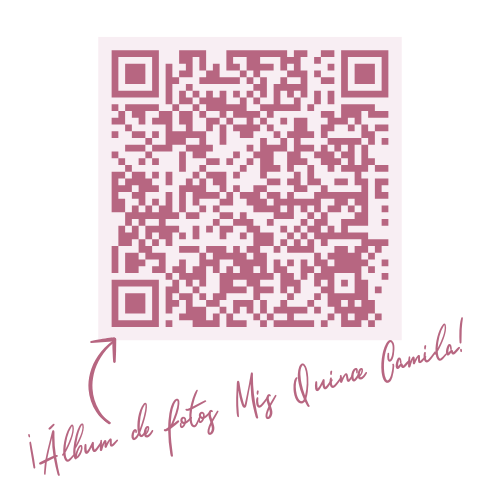
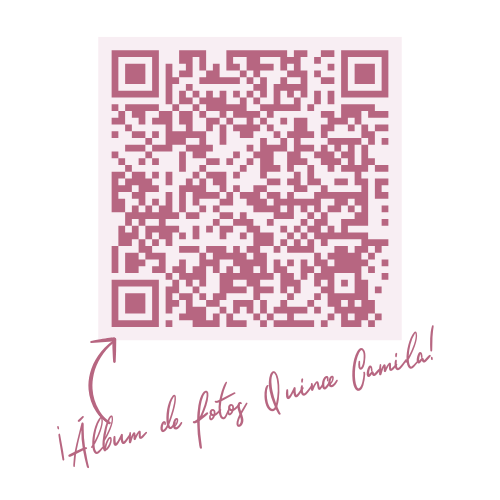
cambios

Changed region(s): [[0.06, 0.63, 0.93, 0.96]]

diff --git a/index.html b/index.html
@@ -3,12 +3,12 @@
 <head>
     <meta charset="UTF-8">
     <meta name="viewport" content="width=device-width, initial-scale=1.0">
-    <title>Mis Quince Camila</title>
+    <title>Quince Camila</title>
     <meta property="og:url" content="">
     <meta property="og:type" content="website">
-    <meta property="og:title" content="Mis Quince Camila">
-    <meta property="og:description" content="Te invito a mis quince, con amor Camila.">
-    <meta property="og:image" content="https://images.pexels.com/photos/12017111/pexels-photo-12017111.jpeg?auto=compress&cs=tinysrgb&w=1260&h=750&dpr=2">
+    <meta property="og:title" content="Quince Camila">
+    <meta property="og:description" content="Te invito a mis quince, con amor Cami.">
+    <meta property="og:image" content="https://i.postimg.cc/dQ6FnRsW/FOTOS-META-7.png">
     <link rel="stylesheet" href="https://cdnjs.cloudflare.com/ajax/libs/font-awesome/6.0.0-beta3/css/all.min.css">
     <link rel="stylesheet" href="/style.css">
     <link rel="preload" href="/imagenes/F1.png" as="image">
@@ -23,20 +23,17 @@
     <div id="envelope">
         <div id="envelope-top"></div>
         <div id="seal">
-            <h2 class="fade-in-element visible" style="transition-delay: 0s;">Mis Quince     Camila</h2>
+            <h2 class="fade-in-element visible" style="transition-delay: 0s;">Quince     Camila</h2>
         </div>
         <div id="envelope-bottom"></div>
     </div>
     <!-- Contenido de la Invitación -->
     <div id="invitacion">
+        <div class="section-ccerezo-inicial"></div>
         <!--Header-->
-        <header class="sintillo">
-            <h1>Mis Quince</h1>
+        <div class="sintillo">
+            <h1>Quince</h1>
             <h2>Camila</h2>
-        </header>
-        <!-- Sección de Foto -->
-        <div class="section-main fade-in-element">
-            <img src="/Imagenes/v1.jpg" alt="Foto de la quinceañera" width="100%">
         </div>
         <!-- Contador de Fecha Regresiva -->
         <div class="section-countdown fade-in-element">
@@ -105,9 +102,6 @@
             <div id="confirmacion"></div>
         </div>
          <!--imagen-->
-         <div class="section fade-in-element">
-            <img src="/imagenes/v2.jpg" alt="Foto de la quinceañera" width="100%" loading="lazy">
-        </div>
         <!-- Itinerario -->
         <div class="section fade-in-element">
           <!--card ceremonia-->
@@ -169,7 +163,7 @@
              style="width:200px;height:200px">
             </lord-icon>
             <h2>Lluvia de Sobres</h2>
-            <p>Lo que más queremos es compartir contigo nuestro gran día, pero agradecemos mucho el gesto de un obsequio. Tendremos un cofre en la entrada para que puedas dejar tu sobre con efectivo</p>
+            <p>El regalo mas especial es compartir con ustedes este gran día, pero si no sabes qué obsequiarme, tendremos un cofre para que puedas dejar tu sobre con efectivo.</p>
             <p>¡Gracias!</p>
         </div>
          <!-- Playlist -->
@@ -188,7 +182,7 @@
         </div>
          <!--imagen-->
          <div class="section fade-in-element">
-            <img src="/Imagenes/v3.jpg" alt="Foto de la quinceañera" width="100%" loading="lazy">
+            <img src="/Imagenes/camila.jpeg" alt="Foto de la quinceañera" width="100%" loading="lazy">
         </div>
         <!-- Buenos Deseos -->
 <div class="section wishes-section fade-in-element" id="wishes">
@@ -201,7 +195,7 @@
     colors="primary:#8B4513,secondary:#C7889D"
     style="width:200px;height:200px">
 </lord-icon>
-    <p>Deja un mensaje especial para Cami 💖</p>
+    <p>Deja un mensaje especial para Cami.</p>
   
     <div class="wishes-actions">
       <button id="btn-ver-deseos" onclick="toggleWishes()">Ver deseos</button>
@@ -236,25 +230,10 @@
             colors="primary:#8b4513,secondary:#c7889d"
             style="width:200px;height:200px">
         </lord-icon>
-            <p>Gala, y nos reservemos las tonalidades corinto, vino y rojo para la quinceañera </p>
+            <p>Agradecemos que puedas ir de gala, pero por ser un dia especial para Cami, te pedimos que reservemos las tonalidades corinto, rojo o vino para la quinceañera.</p>
         </div>
         <!--div cerezo-->
         <div class="section-cerezo0"></div>   
-       <!-- Galería de Fotos -->
-       <div class="section fade-in-element">
-           <h2>Galería</h2>
-           <div class="galeria">
-             <img src="/Imagenes/h2.jpg" alt="Foto 1" class="galeria-imagen" onclick="changePhoto(this)" loading="lazy">
-             <img src="/imagenes/v5.jpg" alt="Foto 2" class="galeria-imagen" onclick="changePhoto(this)" loading="lazy">
-             <img src="/imagenes/v1.jpg" alt="Foto 3" class="galeria-imagen" onclick="changePhoto(this)" loading="lazy">
-             <img src="/Imagenes/FOTOS-META.png" alt="Foto 4" class="galeria-imagen" onclick="changePhoto(this)" loading="lazy">
-           </div>
-        </div>
-        <!-- Modal para visualización de fotos -->
-        <div id="photo-modal" class="photo-modal" onclick="closeModal(event)">
-            <span class="close" onclick="closeModal()">&times;</span>
-            <img id="main-photo-modal" src="" alt="Imagen ampliada">
-        </div>
          <!-- Hashtag + Álbum digital -->
             <div class="section hashtag-section fade-in-element">
     <lord-icon
@@ -266,7 +245,7 @@
       style="width:200px;height:200px">
     </lord-icon>
   
-    <h2>#misquinceCamila</h2>
+    <h2>#quinceCami</h2>
     <p>Sube tus fotos a Instagram usando el hashtag y compártenos tus recuerdos en el álbum digital.</p>
   
     <!-- Aquí colocas tu imagen del QR -->
@@ -277,9 +256,6 @@
 
             </div>
         <!-- Imagen -->
-        <div class="section fade-in-element">
-            <img src="/imagenes/h1.jpg" alt="Foto de la quinceañera" width="100%" loading="lazy">
-        </div>
         <!-- Footer -->
         <footer>
             <div class="section-social-icons fade-in-element">

diff --git a/style.css b/style.css
@@ -76,6 +76,31 @@ body {
     font-weight: 400;
     font-style: italic;
 }
+.section-ccerezo-inicial{
+    position: relative;
+    width: 100%;
+    height: 280px;
+    display: flex;
+    flex-direction: column;
+    justify-content: center;
+    align-items: center;
+    overflow: hidden;
+    margin-top: -15px;
+    z-index: -1;
+}
+.section-ccerezo-inicial::before {
+    content: "";
+    position: absolute;
+    top: 0;
+    left: 0;
+    width: 100%;
+    height: 100%;
+    background-image: url('/Imagenes/cerezo-top.png');
+    background-size: cover;
+    background-position: center;
+    background-repeat: no-repeat;
+    z-index: -1;
+}
 #invitacion {
     display: none;
     background: transparent;
@@ -92,7 +117,7 @@ body {
     justify-content: center;
     align-items: center;
     overflow: hidden;
-    margin-top: -50px;
+    margin-top: -150px;
     margin-bottom: -50px;
     z-index: 2;
 }
@@ -103,7 +128,6 @@ body {
     left: 0;
     width: 100%;
     height: 100%;
-    background-image: url(/Imagenes/div4.png);
     background-size: cover;
     background-position: center;
     background-repeat: no-repeat;
@@ -119,7 +143,7 @@ body {
     font-family: var(--font-1);
     font-weight: 400;
     font-style: italic;
-    font-size: 50px;
+    font-size: 70px;
     white-space: nowrap;
     margin-top: 30px;
 }
@@ -133,9 +157,9 @@ body {
     font-family: var(--font-1);
     font-weight: 400;
     font-style: italic;
-    font-size: 70px;
+    font-size: 90px;
     white-space: nowrap;
-    margin-top: 150px;
+    margin-top: 200px;
 }
 .section , .section-playlist, .section-filter, .section-quote{
     padding: 0;
@@ -608,7 +632,6 @@ footer {
     background-color: #f8eef3ca; /* mismo fondo que section-filter */
     padding: 20px;
     text-align: center;
-    border-radius: 12px;
 }
 
 .hashtag-section h2 {
@@ -639,7 +662,7 @@ footer {
     height: auto;
     margin: 15px auto;
     display: block;
-    border-radius: 12px;
+    -radius: 12px;
     box-shadow: 0 2px 8px rgba(0,0,0,0.15);
 }
 
